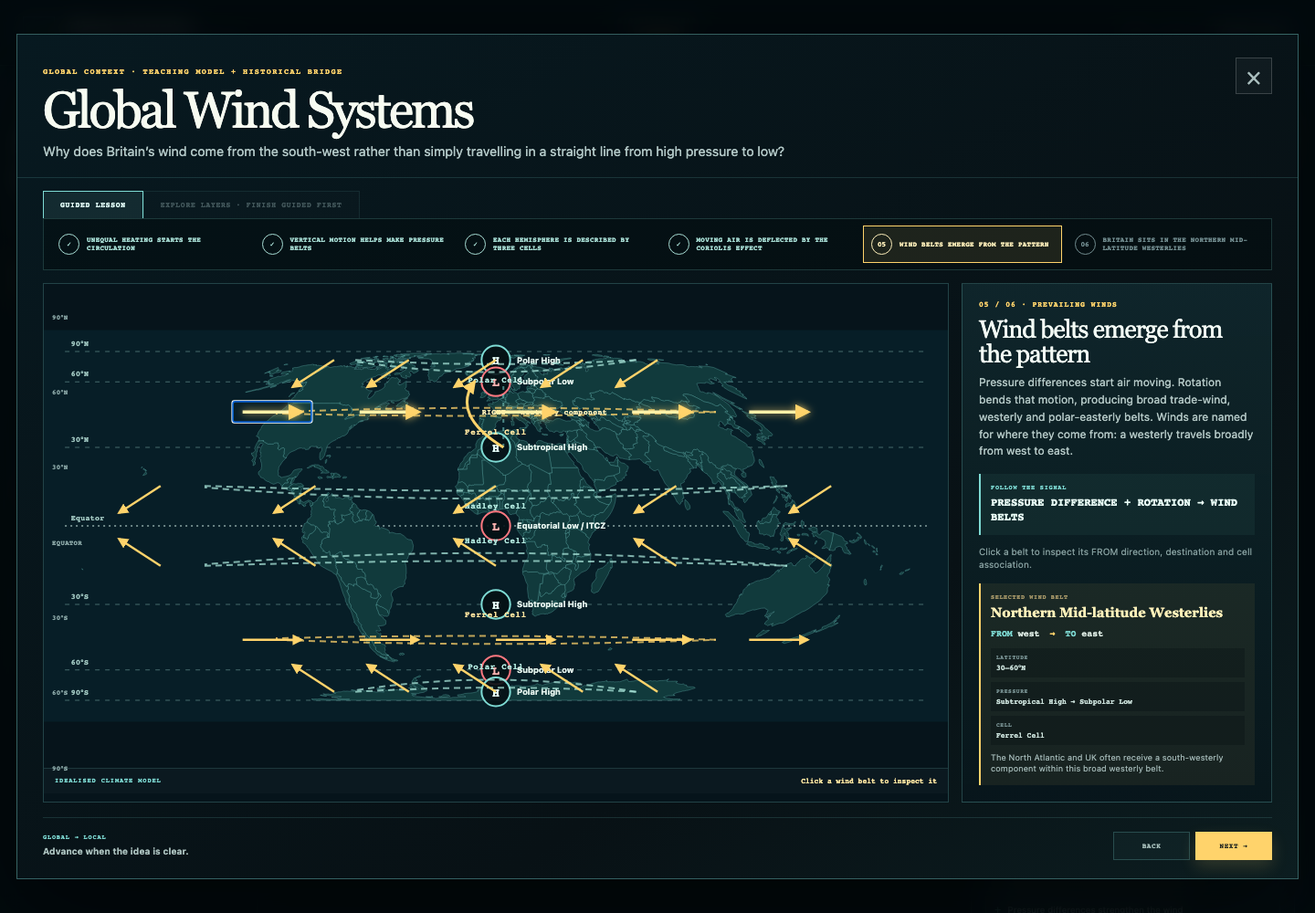
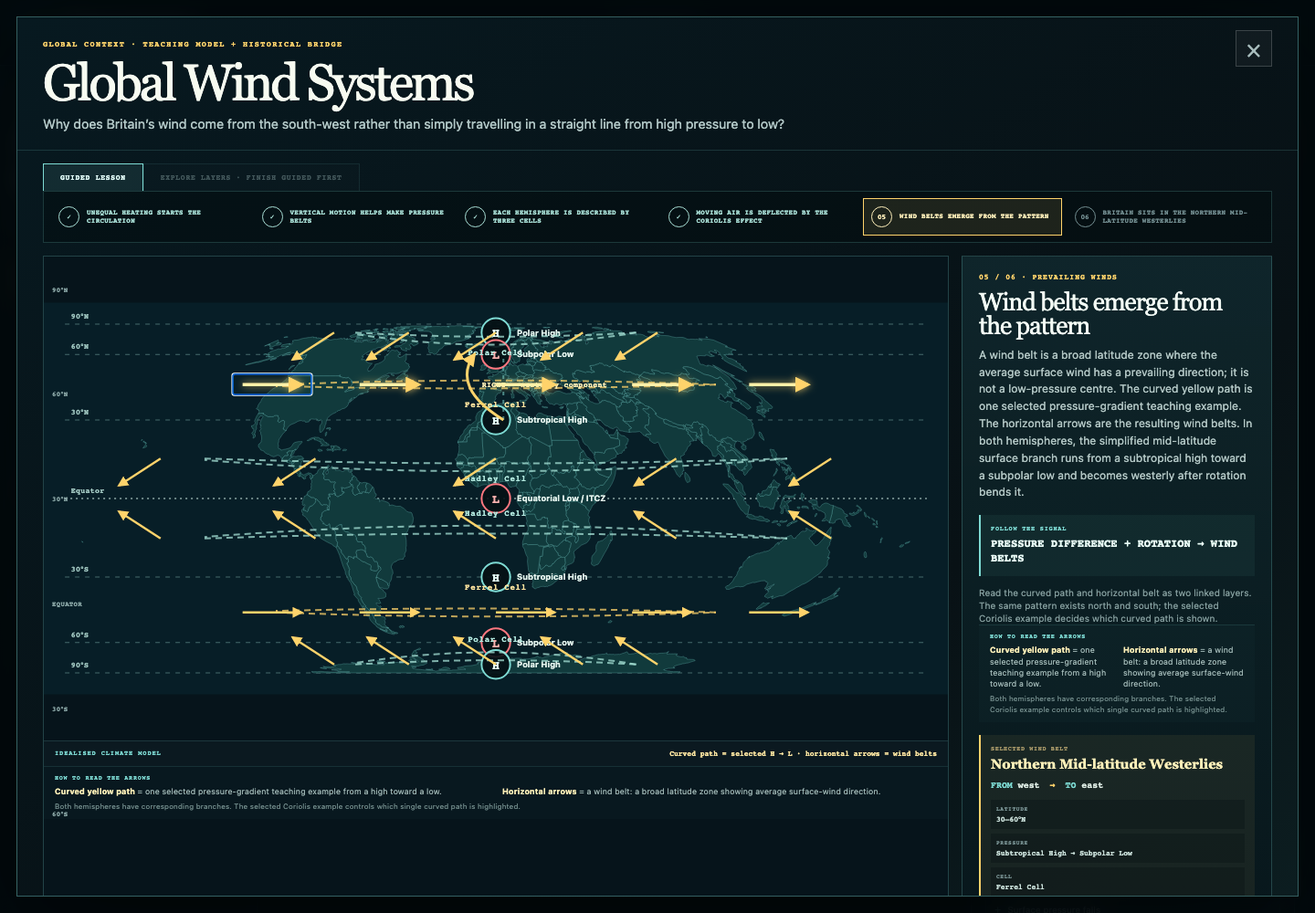
climate: clarify wind-belt arrow semantics

diff --git a/app/games/climate-detective/GlobalWindSystems.tsx b/app/games/climate-detective/GlobalWindSystems.tsx
@@ -22,7 +22,7 @@ const GUIDED_STAGES = [
   { id: 1, eyebrow: "02 / 06 · PRESSURE BELTS", title: "Vertical motion helps make pressure belts", body: "Rising air is associated with lower surface pressure. Sinking air is associated with higher surface pressure. In this idealised climate model, broad belts form near the equator, around 30°, around 60° and near the poles.", signal: "RISING AIR → LOW · SINKING AIR → HIGH", hint: "These are climatological patterns, not the small weather-system L and H on today’s map." },
   { id: 2, eyebrow: "03 / 06 · THREE CELLS", title: "Each hemisphere is described by three cells", body: "The Hadley, Ferrel and Polar cells are a simplified way to describe the large-scale overturning. They help connect the pressure belts, but they are not fixed tubes of air and they do not replace real weather observations.", signal: "HADLEY · FERREL · POLAR", hint: "Season, land and ocean contrast make the real atmosphere more variable than this teaching model." },
   { id: 3, eyebrow: "04 / 06 · EARTH ROTATES", title: "Moving air is deflected by the Coriolis effect", body: "Earth’s rotation changes the path of moving air. In the Northern Hemisphere the deflection is to the right of the motion; in the Southern Hemisphere it is to the left. It does not mean every wind points right or left on a map.", signal: "NORTH: RIGHT · SOUTH: LEFT", hint: "Try the same idea with air moving toward the equator and toward the pole." },
-  { id: 4, eyebrow: "05 / 06 · PREVAILING WINDS", title: "Wind belts emerge from the pattern", body: "Pressure differences start air moving. Rotation bends that motion, producing broad trade-wind, westerly and polar-easterly belts. Winds are named for where they come from: a westerly travels broadly from west to east.", signal: "PRESSURE DIFFERENCE + ROTATION → WIND BELTS", hint: "Click a belt to inspect its FROM direction, destination and cell association." },
+  { id: 4, eyebrow: "05 / 06 · PREVAILING WINDS", title: "Wind belts emerge from the pattern", body: "A wind belt is a broad latitude zone where the average surface wind has a prevailing direction; it is not a low-pressure centre. The curved yellow path is one selected pressure-gradient teaching example. The horizontal arrows are the resulting wind belts. In both hemispheres, the simplified mid-latitude surface branch runs from a subtropical high toward a subpolar low and becomes westerly after rotation bends it.", signal: "PRESSURE DIFFERENCE + ROTATION → WIND BELTS", hint: "Read the curved path and horizontal belt as two linked layers. The same pattern exists north and south; the selected Coriolis example decides which curved path is shown." },
   { id: 5, eyebrow: "06 / 06 · BRITAIN → REAL WEATHER", title: "Britain sits in the Northern mid-latitude westerlies", body: "Britain is around 50–60°N, so the background circulation is associated with the Northern Hemisphere westerlies. That makes Atlantic airflow common, but it does not make every UK wind south-westerly. The exact day depends on the weather-scale pressure pattern.", signal: "GLOBAL BACKGROUND ≠ DAILY WEATHER", hint: "Now compare the idealised context with the real 15 Jan 2018 Mission 01 record." },
 ] as const;
 
@@ -81,7 +81,7 @@ function GlobalMap({ stage, mode, layers, selectedBeltId, selectedPressureId, co
     {visible.britain && <g className="global-britain-layer" onClick={onShowBritain} role="button" tabIndex={0} onKeyDown={event => { if (event.key === "Enter" || event.key === " ") { event.preventDefault(); onShowBritain(); } }} aria-label="Show Britain in the Northern Hemisphere mid-latitudes"><circle cx={britain.x} cy={britain.y} r="14" /><circle cx={britain.x} cy={britain.y} r="4" /><text x={britain.x + 20} y={britain.y - 8}>BRITAIN · 55°N</text><path d={`M${britain.x - 110},${britain.y + 38} Q${britain.x - 40},${britain.y - 8} ${britain.x - 12},${britain.y + 4}`} markerEnd="url(#global-arrow-gold)" /><text x={britain.x - 112} y={britain.y + 59}>NORTH ATLANTIC → UK</text></g>}
     {visible.historical && <g className="global-historical-layer" aria-label="Historical Mission 01 wind on 15 January 2018"><rect x={britain.x - 92} y={britain.y - 78} width="206" height="43" rx="3" /><text x={britain.x - 80} y={britain.y - 60}>15 JAN 2018 · HISTORICAL DATA</text><text x={britain.x - 80} y={britain.y - 44}>FROM {historical.windCompass} · {historical.windSpeed.toFixed(1)} m/s</text><line markerEnd="url(#global-arrow-cyan)" x1={britain.x - 78} y1={britain.y + 83} x2={britain.x - 78 + actualTo.x} y2={britain.y + 83 + actualTo.y} /><text x={britain.x - 80} y={britain.y + 113}>observed/analysis wind · arrow TO</text></g>}
     {stage === 0 && <g className="global-heating-layer"><ellipse cx={VIEW.width / 2} cy={latitudeY(0)} rx="235" ry="28" /><path d={`M${VIEW.width / 2 - 260},${latitudeY(0) - 120} L${VIEW.width / 2 - 150},${latitudeY(0) - 30}`} markerEnd="url(#global-arrow-gold)" /><path d={`M${VIEW.width / 2 + 260},${latitudeY(0) - 120} L${VIEW.width / 2 + 150},${latitudeY(0) - 30}`} markerEnd="url(#global-arrow-gold)" /><text x={VIEW.width / 2} y={latitudeY(0) + 9} textAnchor="middle">MORE CONCENTRATED SOLAR ENERGY</text></g>}
-  </svg><div className="global-map-caption"><span>{mode === "guided" ? "IDEALISED CLIMATE MODEL" : "EXPLORE · TOGGLE A LAYER"}</span><b>{visible.historical ? "Global context → 15 Jan 2018" : visible.winds ? "Click a wind belt to inspect it" : visible.pressure ? "Broad climatological pressure pattern" : "Latitude is the organising clue"}</b></div></div>;
+  </svg><div className="global-map-caption"><span>{mode === "guided" ? "IDEALISED CLIMATE MODEL" : "EXPLORE · TOGGLE A LAYER"}</span><b>{visible.historical ? "Global context → 15 Jan 2018" : visible.winds ? "Curved path = selected H → L · horizontal arrows = wind belts" : visible.pressure ? "Broad climatological pressure pattern" : "Latitude is the organising clue"}</b></div>{visible.winds && !visible.historical && <GlobalMapReadingGuide />}</div>;
 }
 
 function CoriolisDemo({ exampleId, rotationOn, onExample, onToggleRotation }: { exampleId: typeof CORIOLIS_EXAMPLES[number]["id"]; rotationOn: boolean; onExample: (id: typeof CORIOLIS_EXAMPLES[number]["id"]) => void; onToggleRotation: () => void }) {
@@ -94,6 +94,10 @@ function CoriolisDemo({ exampleId, rotationOn, onExample, onToggleRotation }: { 
   const demoCurve = screenRight ? 58 : -58;
   const route = `${Math.abs(startLatitude)}°${startLatitude >= 0 ? "N" : "S"} → ${endLatitude === 0 ? "equator" : `${Math.abs(endLatitude)}°${endLatitude >= 0 ? "N" : "S"}`}`;
   return <div className="global-coriolis-demo"><div className="global-demo-heading"><span>INTERACTIVE CORIOLIS DEMO</span><b>{rotationOn ? "EARTH ROTATION ON" : "EARTH ROTATION OFF"}</b></div><div className="global-demo-controls"><button className={!rotationOn ? "active" : ""} onClick={() => { if (rotationOn) onToggleRotation(); }}>Rotation OFF</button><button className={rotationOn ? "active" : ""} onClick={() => { if (!rotationOn) onToggleRotation(); }}>Rotation ON</button></div><div className="global-coriolis-examples">{CORIOLIS_EXAMPLES.map(item => <button key={item.id} className={item.id === exampleId ? "active" : ""} onClick={() => onExample(item.id)}>{item.hemisphere === "north" ? "NH" : "SH"} · {item.id.includes("equatorward") ? "toward equator" : "toward pole"}</button>)}</div><div className="global-demo-track"><svg viewBox="0 0 280 105" role="img" aria-label={`${example.motion}; ${route}; ${rotationOn ? `deflects ${example.deflection}` : "travels in a straight conceptual path"}`}><defs><marker id="demo-arrow" viewBox="0 0 10 10" refX="8" refY="5" markerWidth="5" markerHeight="5" orient="auto"><path d="M0 0L10 5L0 10z" fill={rotationOn ? "#ffd36b" : "#7edbd4"} /></marker></defs><path className="demo-straight" d={`M140 ${startY} L140 ${endY}`} markerEnd="url(#demo-arrow)" /><path className={`demo-curve ${rotationOn ? "on" : "off"}`} d={rotationOn ? `M140 ${startY} Q${140 + demoCurve} 52 174 ${endY}` : `M140 ${startY} L140 ${endY}`} markerEnd="url(#demo-arrow)" /></svg><div><b>{route} · {rotationOn ? `Deflects ${example.deflection}` : "Conceptual pressure-gradient path"}</b><p>{rotationOn ? `In the ${example.hemisphere === "north" ? "Northern" : "Southern"} Hemisphere, this motion bends to the ${example.deflection}. The resulting ${example.result} is a broad pattern, not a daily forecast.` : "A simple teaching view that ignores Earth’s rotation. Pressure differences can start motion, but this is not the complete real-world path."}</p></div></div></div>;
+}
+
+function GlobalMapReadingGuide() {
+  return <div className="global-map-reading-guide"><span>HOW TO READ THE ARROWS</span><p><strong>Curved yellow path</strong> = one selected pressure-gradient teaching example from a high toward a low.</p><p><strong>Horizontal arrows</strong> = a wind belt: a broad latitude zone showing average surface-wind direction.</p><small>Both hemispheres have corresponding branches. The selected Coriolis example controls which single curved path is highlighted.</small></div>;
 }
 
 function WindBeltDetail({ belt }: { belt: WindBelt }) {
@@ -137,7 +141,7 @@ export default function GlobalWindSystems({ initialStage = 0, onClose }: { initi
     <div className="global-mode-tabs" role="tablist" aria-label="Global Wind Systems modes"><button role="tab" aria-selected={mode === "guided"} className={mode === "guided" ? "active" : ""} onClick={() => setMode("guided")}>Guided lesson</button><button role="tab" aria-selected={mode === "explore"} className={mode === "explore" ? "active" : ""} disabled={!guidedComplete} onClick={() => setMode("explore")}>Explore layers {guidedComplete ? "" : "· finish Guided first"}</button></div>
     {mode === "guided" ? <div className="global-stage-strip" aria-label="Guided lesson stages">{GUIDED_STAGES.map(item => <button key={item.id} className={item.id === stage ? "active" : item.id < stage ? "done" : ""} onClick={() => goStage(item.id)} aria-label={`Guided stage ${item.id + 1}: ${item.title}`}><span>{item.id < stage ? "✓" : String(item.id + 1).padStart(2, "0")}</span><small>{item.title}</small></button>)}</div> : <div className="global-explore-controls" aria-label="Explore global circulation layers">{(["latitude", "pressure", "cells", "coriolis", "winds", "britain", "historical"] as const).map(layer => <button key={layer} className={exploreLayers[layer] ? "active" : ""} aria-pressed={exploreLayers[layer]} onClick={() => toggleLayer(layer)}>{layer === "latitude" ? "Latitude" : layer === "pressure" ? "Pressure belts" : layer === "cells" ? "Atmospheric cells" : layer === "coriolis" ? "Coriolis" : layer === "winds" ? "Wind belts" : layer === "britain" ? "Show Britain" : "15 Jan 2018"}</button>)}</div>}
     <div className="global-panel-body"><GlobalMap stage={stage} mode={mode} layers={exploreLayers} selectedBeltId={selectedBeltId} selectedPressureId={selectedPressureId} coriolisExampleId={coriolisExampleId} onSelectBelt={belt => { setSelectedBeltId(belt.id); setExploreLayers(old => ({ ...old, winds: true })); }} onSelectPressure={belt => setSelectedPressureId(belt.id)} onShowBritain={showBritain} />
-      <aside className="global-lesson-card">{mode === "guided" ? <><span className="global-lesson-eyebrow">{currentStage.eyebrow}</span><h3>{currentStage.title}</h3><p>{currentStage.body}</p><div className="global-lesson-signal"><small>FOLLOW THE SIGNAL</small><b>{currentStage.signal}</b></div><small className="global-lesson-hint">{currentStage.hint}</small>{stage === 1 && selectedPressure && <div className="global-selected-callout"><b>{selectedPressure.name}</b><p>{selectedPressure.kind === "H" ? "Sinking air is associated with this idealised high-pressure belt." : "Rising air is associated with this idealised low-pressure belt."} <strong>{selectedPressure.latitudeRange}</strong>.</p></div>}{stage === 3 && <CoriolisDemo exampleId={coriolisExampleId} rotationOn={rotationOn} onExample={setCoriolisExampleId} onToggleRotation={() => setRotationOn(value => !value)} />}{stage === 4 && selectedBelt && <WindBeltDetail belt={selectedBelt} />}{stage === 3 && challenge}{stage === 5 && <HistoricalBridge />}</> : <><span className="global-lesson-eyebrow">EXPLORE MODE · REFERENCE</span><h3>Build your own global-to-local view</h3><p>Turn one layer on at a time. Solid land and latitude lines are geographic context. Dashed arrows, belts and cells are the idealised climate model. The 15 Jan 2018 panel is historical data.</p>{selectedPressure && <div className="global-selected-callout"><b>{selectedPressure.name}</b><p>{selectedPressure.kind === "H" ? "High-pressure belt · sinking air" : "Low-pressure belt · rising air"} · {selectedPressure.latitudeRange}.</p></div>}{selectedBelt && <WindBeltDetail belt={selectedBelt} />}{exploreLayers.coriolis && <CoriolisDemo exampleId={coriolisExampleId} rotationOn={rotationOn} onExample={setCoriolisExampleId} onToggleRotation={() => setRotationOn(value => !value)} />}{exploreLayers.historical && <HistoricalBridge />}{exploreLayers.winds && !selectedBelt && <div className="global-lesson-tip"><b>Choose a wind belt on the map.</b><p>Its card will show the FROM direction, destination, latitude range, pressure connection and cell.</p></div>}</>}</aside>
+      <aside className="global-lesson-card">{mode === "guided" ? <><span className="global-lesson-eyebrow">{currentStage.eyebrow}</span><h3>{currentStage.title}</h3><p>{currentStage.body}</p><div className="global-lesson-signal"><small>FOLLOW THE SIGNAL</small><b>{currentStage.signal}</b></div><small className="global-lesson-hint">{currentStage.hint}</small>{stage === 1 && selectedPressure && <div className="global-selected-callout"><b>{selectedPressure.name}</b><p>{selectedPressure.kind === "H" ? "Sinking air is associated with this idealised high-pressure belt." : "Rising air is associated with this idealised low-pressure belt."} <strong>{selectedPressure.latitudeRange}</strong>.</p></div>}{stage === 3 && <CoriolisDemo exampleId={coriolisExampleId} rotationOn={rotationOn} onExample={setCoriolisExampleId} onToggleRotation={() => setRotationOn(value => !value)} />}{stage === 4 && <GlobalMapReadingGuide />}{stage === 4 && selectedBelt && <WindBeltDetail belt={selectedBelt} />}{stage === 3 && challenge}{stage === 5 && <HistoricalBridge />}</> : <><span className="global-lesson-eyebrow">EXPLORE MODE · REFERENCE</span><h3>Build your own global-to-local view</h3><p>Turn one layer on at a time. Solid land and latitude lines are geographic context. Dashed arrows, belts and cells are the idealised climate model. The 15 Jan 2018 panel is historical data.</p>{selectedPressure && <div className="global-selected-callout"><b>{selectedPressure.name}</b><p>{selectedPressure.kind === "H" ? "High-pressure belt · sinking air" : "Low-pressure belt · rising air"} · {selectedPressure.latitudeRange}.</p></div>}{selectedBelt && <WindBeltDetail belt={selectedBelt} />}{exploreLayers.coriolis && <CoriolisDemo exampleId={coriolisExampleId} rotationOn={rotationOn} onExample={setCoriolisExampleId} onToggleRotation={() => setRotationOn(value => !value)} />}{exploreLayers.historical && <HistoricalBridge />}{exploreLayers.winds && <GlobalMapReadingGuide />}{exploreLayers.winds && !selectedBelt && <div className="global-lesson-tip"><b>Choose a wind belt on the map.</b><p>Its card will show the FROM direction, destination, latitude range, pressure connection and cell.</p></div>}</>}</aside>
     </div>
     <footer className="global-panel-footer"><div>{mode === "guided" ? <><span>GLOBAL → LOCAL</span><b>{stage === 5 ? "The model has met the real record." : "Advance when the idea is clear."}</b></> : <><span>MODEL / DATA LEGEND</span><b>Idealised climate model · Historical weather data</b></>}</div><div className="global-footer-actions">{mode === "guided" && <><button onClick={() => goStage(stage - 1)} disabled={stage === 0}>Back</button>{stage < 5 ? <button className="primary" onClick={() => goStage(stage + 1)}>Next <span>→</span></button> : <button className="primary" onClick={onClose}>Return to mission <span>→</span></button>}</>}{mode === "explore" && <button className="primary" onClick={onClose}>Return to mission <span>→</span></button>}</div></footer>
   </div></div>;

diff --git a/app/globals.css b/app/globals.css
@@ -597,6 +597,11 @@ button:focus-visible { outline: 2px solid #fff; outline-offset: 4px; }
 .global-map-caption { display:flex; justify-content:space-between; gap:10px; padding:9px 12px; border-top:1px solid rgba(126,219,212,.16); background:rgba(255,255,255,.025); }
 .global-map-caption span { color:#7edbd4; font:800 .44rem var(--mono); letter-spacing:.12em; }
 .global-map-caption b { color:#ffe7a2; font:700 .5rem var(--mono); }
+.global-map-reading-guide { display:grid; grid-template-columns:1fr 1fr; gap:5px 14px; padding:8px 12px; border-top:1px solid rgba(126,219,212,.12); background:rgba(126,219,212,.025); color:#9fb6b4; font-size:.55rem; line-height:1.4; }
+.global-map-reading-guide>span { grid-column:1/-1; color:#7edbd4; font:800 .42rem var(--mono); letter-spacing:.11em; }
+.global-map-reading-guide p { margin:0; }
+.global-map-reading-guide strong { color:#fff0b8; }
+.global-map-reading-guide small { grid-column:1/-1; color:#718b8a; font-size:.5rem; }
 .global-lesson-card { min-width:0; padding:18px; border:1px solid rgba(126,219,212,.24); background:linear-gradient(180deg,rgba(15,39,44,.92),rgba(8,22,27,.98)); }
 .global-lesson-eyebrow { display:block; color:#ffd36b; font:800 .5rem var(--mono); letter-spacing:.13em; }
 .global-lesson-card h3 { margin:10px 0 9px; color:#f3fbf5; font:500 1.7rem/.98 var(--serif); letter-spacing:-.04em; }
@@ -651,7 +656,7 @@ button:focus-visible { outline: 2px solid #fff; outline-offset: 4px; }
 .global-panel-footer>div:first-child>span { display:block; color:#7edbd4; font:800 .43rem var(--mono); letter-spacing:.12em; }.global-panel-footer>div:first-child>b { display:block; margin-top:4px; color:#a9bfbc; font-size:.62rem; }
 .global-footer-actions { display:flex; gap:6px; }.global-footer-actions button { min-width:84px; padding:10px 13px; border:1px solid rgba(126,219,212,.24); background:rgba(126,219,212,.045); color:#a7bfbb; font:800 .48rem var(--mono); letter-spacing:.07em; text-transform:uppercase; cursor:pointer; }.global-footer-actions button.primary { border-color:transparent; background:#ffd36b; color:#101a1b; box-shadow:0 7px 18px rgba(255,211,107,.16); }.global-footer-actions button:disabled { opacity:.35; cursor:not-allowed; }
 @media(max-width:1050px) { .global-panel-body { grid-template-columns:minmax(0,1fr) 300px; padding-left:18px; padding-right:18px; }.global-panel-header { padding-left:18px; padding-right:18px; }.global-mode-tabs,.global-stage-strip,.global-explore-controls { margin-left:18px; margin-right:18px; }.global-panel-footer { margin-left:18px; margin-right:18px; } }
-@media(max-width:800px) { .climate-global-overlay { display:block; padding:8px; }.climate-global-panel { max-height:none; }.global-panel-header { padding:18px 14px 14px; }.global-panel-header h2 { font-size:2.3rem; }.global-panel-header p { font-size:.76rem; }.global-mode-tabs { padding:10px 14px 0; overflow:auto; }.global-mode-tabs button { white-space:nowrap; }.global-stage-strip { display:flex; overflow:auto; margin-left:14px; margin-right:14px; }.global-stage-strip button { min-width:150px; }.global-explore-controls { margin-left:14px; margin-right:14px; }.global-panel-body { display:flex; flex-direction:column; padding:0 14px 13px; }.global-map-shell { order:0; }.global-circulation-map { min-height:330px; height:360px; }.global-lesson-card { order:1; }.global-panel-footer { margin:0 14px; align-items:stretch; flex-direction:column; }.global-footer-actions { display:grid; grid-template-columns:1fr 1fr; }.global-footer-actions button.primary { grid-column:span 1; }.global-map-caption { flex-direction:column; }.global-lesson-card h3 { font-size:1.55rem; } }
+@media(max-width:800px) { .climate-global-overlay { display:block; padding:8px; }.climate-global-panel { max-height:none; }.global-panel-header { padding:18px 14px 14px; }.global-panel-header h2 { font-size:2.3rem; }.global-panel-header p { font-size:.76rem; }.global-mode-tabs { padding:10px 14px 0; overflow:auto; }.global-mode-tabs button { white-space:nowrap; }.global-stage-strip { display:flex; overflow:auto; margin-left:14px; margin-right:14px; }.global-stage-strip button { min-width:150px; }.global-explore-controls { margin-left:14px; margin-right:14px; }.global-panel-body { display:flex; flex-direction:column; padding:0 14px 13px; }.global-map-shell { order:0; }.global-circulation-map { min-height:330px; height:360px; }.global-lesson-card { order:1; }.global-panel-footer { margin:0 14px; align-items:stretch; flex-direction:column; }.global-footer-actions { display:grid; grid-template-columns:1fr 1fr; }.global-footer-actions button.primary { grid-column:span 1; }.global-map-caption { flex-direction:column; }.global-map-reading-guide { grid-template-columns:1fr; }.global-map-reading-guide>span,.global-map-reading-guide small { grid-column:1; }.global-lesson-card h3 { font-size:1.55rem; } }
 @media(max-width:500px) { .climate-map-heading-actions { align-items:flex-end; flex-direction:column; gap:5px; }.climate-global-launch { min-width:138px; }.climate-map-controls { align-self:flex-end; }.global-panel-header { gap:10px; }.global-close-button { width:34px; height:34px; }.global-panel-header h2 { font-size:2rem; }.global-panel-header p { font-size:.7rem; }.global-circulation-map { min-height:275px; height:300px; }.global-map-labels { padding:25px 0; }.global-map-labels span { font-size:.38rem; }.global-lesson-card { padding:13px; }.global-lesson-card>p { font-size:.7rem; }.global-demo-track { grid-template-columns:90px 1fr; }.global-demo-track svg { width:90px; }.global-stage-strip button { min-width:136px; } }
 @media (prefers-reduced-motion:reduce) { .global-wind-belt,.global-pressure-marker,.climate-global-launch { transition:none; }.global-wind-belt:hover .global-wind-arrow { filter:none; } }
 

diff --git a/docs/climate-detective/PROGRESS.md b/docs/climate-detective/PROGRESS.md
@@ -1,9 +1,9 @@
 # Climate Detective Progress
 
 Last updated: 2026-09-13
-Current milestone: M28 Global Atmospheric Circulation Interactive Reference — VERIFIED
+Current milestone: M28 Global Atmospheric Circulation Interactive Reference — clarity patch in QA
 Current blocker: none; Mission 01 and M27 remain protected baselines
-Next action: keep Mission 02 expansion frozen and reassess the next curriculum milestone separately
+Next action: deploy and fresh-player verify the wind-belt arrow reading guide
 
 ## Mission status
 
@@ -127,6 +127,10 @@ No new mission expansion was started.
 - Added M28 unit coverage and `verify-m28-global-circulation.cjs`; local
   desktop + 390 × 844 browser replay passed with eight screenshots and zero
   console/page errors.
+- Added an explicit M28 stage-5 reading guide: the curved yellow arrow is one
+  selected pressure-gradient teaching example, while horizontal arrows are
+  the broad surface wind belts; the copy states that corresponding branches
+  exist in both hemispheres. The browser harness asserts these labels.
 - Published the exact tested M28 app commit `ef28acb827e930fe8191390046a2ceab97fc7ac9`
   as private Site version 119; the deployment succeeded at
   `https://the-axiom-atlas.ckstks246335.chatgpt.site`.
@@ -177,7 +181,8 @@ No new mission expansion was started.
   desktop Guided/Explore, Coriolis demo, wind-belt selection, historical
   bridge, Explain return-state, keyboard Enter/Escape, reduced-motion media,
   390 × 844 mobile flow passed; eight M28 PNGs captured; the harness now
-  checks all four rendered Coriolis motion directions;
+  checks all four rendered Coriolis motion directions and the wind-belt
+  arrow-reading guide;
   `browser-console-m28.json` reports `errors: []`.
 - Deployed Site version 120: production CUA replay and live SVG inspection
   passed all four Coriolis routes and the Mission 01 contextual-link return

diff --git a/docs/climate-detective/EVIDENCE.md b/docs/climate-detective/EVIDENCE.md
@@ -12,7 +12,7 @@
 | Rendered HTML smoke tests | pass | `npm test` — 2 tests passed |
 | M26.1 rendered pointer/touch regression | pass | `verify-m26-1-pointer.cjs` — 10/10 checks passed |
 | M28 global circulation unit/model rules | pass | `tests/game-core.test.mjs` — deterministic geometry, pressure belts, cells, Coriolis and wind-belt assertions |
-| M28 local browser E2E | pass | `verify-m28-global-circulation.cjs` — desktop Guided/Explore + 390 × 844 mobile, 8 screenshots, four rendered Coriolis direction assertions, `browser-console-m28.json` reports `errors: []` |
+| M28 local browser E2E | pass | `verify-m28-global-circulation.cjs` — desktop Guided/Explore + 390 × 844 mobile, 8 screenshots, four rendered Coriolis direction assertions and wind-belt arrow-reading assertions, `browser-console-m28.json` reports `errors: []` |
 
 ## Data evidence
 
@@ -124,6 +124,10 @@ Status: ✅ VERIFIED — local correction and deployed version 120 replay pass
 - Guided lesson passes through six stages: unequal heating, pressure belts,
   three cells, Coriolis deflection, prevailing wind belts, and Britain’s
   Northern mid-latitude westerly context.
+- Stage 5 explicitly separates the curved yellow selected H → L
+  pressure-gradient teaching path from the horizontal arrows representing a
+  broad latitude-zone wind belt, and states that corresponding branches exist
+  in both hemispheres.
 - The map uses generated Natural Earth 1:110m world geometry with the
   documented Equal Earth teaching projection. Country boundaries are geographic
   context; pressure belts, cells, Coriolis arrows and wind belts are labelled as

diff --git a/docs/climate-detective/MASTER_PLAN.md b/docs/climate-detective/MASTER_PLAN.md
@@ -385,6 +385,11 @@ The teaching model and historical weather remain visibly separate.
   with explicit FROM → TO wording.
 - [x] Let the player click a belt to inspect name, source direction, destination
   direction, latitude range, pressure-belt connection and cell association.
+- [x] Distinguish the selected curved H → L pressure-gradient teaching path
+  from the horizontal arrows that represent broad surface wind belts.
+- [x] State explicitly that corresponding wind-belt branches exist in both
+  hemispheres; the highlighted curved path is only the currently selected
+  Coriolis example.
 - [x] Let the player highlight Britain at approximately 50–60°N and show the
   North Atlantic → Britain context.
 
@@ -411,6 +416,8 @@ The teaching model and historical weather remain visibly separate.
 - [x] Run scientific tests and a local fresh-player comprehension path.
 - [x] Add SVG geometry regression checks for all four Coriolis motion examples.
 - [x] Capture screenshots and record evidence paths in `EVIDENCE.md`.
+- [x] Add browser assertions for the wind-belt arrow reading guide and its
+  selected-path versus belt distinction.
 - [x] Publish the corrected exact tested commit to the owner-private Site.
 - [x] Replay the corrected production build and mark M28 VERIFIED only after
   the deployed arrow-direction test passes.
